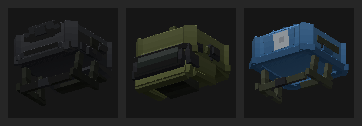
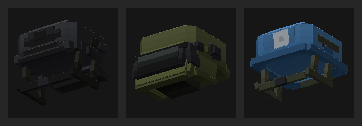
Add files via upload

diff --git a/tools/helmets.py b/tools/helmets.py
@@ -51,8 +51,8 @@ from geom import dome, plain, tilted, corner_posts, chinstrap
 
 # --------------------------------------------------------------- bastion ----
 BASTION = (
-    dome("Head", "shell", -4.60, 4.60, -4.60, 4.60, 28.40, 33.40, "shell_black",
-         corner=1.18, bevel=1.40, plate=1.35, taper=0.0, flare=1.55)
+    dome("Head", "shell", -4.66, 4.66, -4.66, 4.66, 28.40, 33.40, "shell_black",
+         corner=1.10, bevel=1.40, plate=1.35, taper=0.0, flare=1.55)
     + [
         # brow, raked forward so the front edge is not a flat wall
         tilted("Head", "brow", [-4.40, 28.10, -4.95], [8.80, 0.95, 1.35], "shell_black",
@@ -65,13 +65,13 @@ BASTION = (
         plain("Head", "nape_pad", [-3.55, 27.20, 3.05], [7.10, 0.95, 1.80], "webbing_dark"),
 
         # --- NVG shroud on the front of the crown
-        tilted("Head", "shroud_base", [-1.95, 30.60, -4.92], [3.90, 2.00, 0.62], "hardware",
+        tilted("Head", "shroud_base", [-1.95, 29.85, -4.98], [3.90, 1.85, 0.62], "hardware",
                rot=[-14, 0, 0]),
-        tilted("Head", "shroud_lug", [-0.80, 31.10, -5.32], [1.60, 1.00, 0.58], "hardware",
+        tilted("Head", "shroud_lug", [-0.80, 30.35, -5.38], [1.60, 0.95, 0.58], "hardware",
                rot=[-14, 0, 0]),
-        tilted("Head", "shroud_wing_r", [-2.85, 30.90, -4.82], [0.95, 1.10, 0.52], "hardware",
+        tilted("Head", "shroud_wing_r", [-2.85, 30.10, -4.88], [0.95, 1.05, 0.52], "hardware",
                rot=[-14, 0, -9]),
-        tilted("Head", "shroud_wing_l", [1.90, 30.90, -4.82], [0.95, 1.10, 0.52], "hardware",
+        tilted("Head", "shroud_wing_l", [1.90, 30.10, -4.88], [0.95, 1.05, 0.52], "hardware",
                rot=[-14, 0, 9]),
 
         # --- ARC rails down each side
@@ -131,7 +131,7 @@ BASTION = (
                rot=[-7, -11, -8]),
 
         # --- crown seam, canted forward with the fall of the crown
-        tilted("Head", "seam", [-0.50, 33.22, -2.70], [1.00, 0.44, 5.40], "hardware",
+        tilted("Head", "seam", [-0.50, 33.06, -1.85], [1.00, 0.40, 3.70], "hardware",
                rot=[6, 0, 0]),
 
         # --- raked peak over the brow
@@ -157,8 +157,8 @@ K63 = (
     # 28.35 so the eyes (about y 28) stay clear, crown down at 33.20. The wall
     # runs straight to the top of the head and the two-step crown does all the
     # rounding — see the module docstring for why a taper cannot go below y 32.
-    dome("Head", "dome", -4.62, 4.62, -4.62, 4.62, 28.35, 33.20, "olive",
-         corner=1.20, bevel=1.20, plate=1.50, taper=0.0, flare=1.70)
+    dome("Head", "dome", -4.68, 4.68, -4.68, 4.68, 28.35, 33.20, "olive",
+         corner=1.12, bevel=1.20, plate=1.50, taper=0.0, flare=1.70)
     + [
         # raised brow band, proud of the shell all the way round
         plain("Head", "band_x", [-4.84, 28.05, -3.30], [9.68, 0.85, 6.60], "olive_dark"),
@@ -190,7 +190,7 @@ K63 = (
                rot=[0, -12, 7]),
 
         # crown seam, tipped forward so it follows the fall of the crown
-        tilted("Head", "seam", [-0.48, 33.02, -2.60], [0.96, 0.44, 5.20], "olive_dark",
+        tilted("Head", "seam", [-0.48, 32.90, -1.75], [0.96, 0.40, 3.50], "olive_dark",
                rot=[5, 0, 0]),
 
         # swept trim along the lower shell, rising toward the back
@@ -282,8 +282,8 @@ K63 = (
 
 # ----------------------------------------------------------------- untar ----
 UNTAR = (
-    dome("Head", "shell", -4.64, 4.64, -4.64, 4.64, 28.35, 33.40, "un_blue",
-         corner=1.24, bevel=1.40, plate=1.40, taper=0.0, flare=1.55)
+    dome("Head", "shell", -4.70, 4.70, -4.70, 4.70, 28.35, 33.40, "un_blue",
+         corner=1.16, bevel=1.40, plate=1.40, taper=0.0, flare=1.55)
     + [
         # all-round brim, each edge tipped slightly downward so the rim reads
         # as a curve rather than a shelf
@@ -311,9 +311,9 @@ UNTAR = (
         # cover seams crossing the crown on opposite Y rotations — the one
         # place on this helmet where the geometry is not axis-aligned, and it
         # does more for the silhouette than anything bolted to the sides
-        tilted("Head", "seam_a", [-0.35, 33.22, -2.60], [0.70, 0.40, 5.20], "un_blue_dark",
+        tilted("Head", "seam_a", [-0.35, 33.10, -1.85], [0.70, 0.38, 3.70], "un_blue_dark",
                rot=[0, 25, 0]),
-        tilted("Head", "seam_b", [-0.35, 33.22, -2.60], [0.70, 0.40, 5.20], "un_blue_dark",
+        tilted("Head", "seam_b", [-0.35, 33.10, -1.85], [0.70, 0.38, 3.70], "un_blue_dark",
                rot=[0, -25, 0]),
 
         # cloth cover ties, tipped up off the shell

diff --git a/tools/fit_check.py b/tools/fit_check.py
@@ -124,13 +124,74 @@ def check_coverage(name, cubes):
     return not bad
 
 
+def corners_of(c):
+    o = np.array(c["origin"], float)
+    s = np.array(c["size"], float)
+    P = np.array([[o[0] + dx * s[0], o[1] + dy * s[1], o[2] + dz * s[2]]
+                  for dx in (0, 1) for dy in (0, 1) for dz in (0, 1)])
+    if c.get("rotation"):
+        piv = np.array(c.get("pivot", [0, 0, 0]), float)
+        P = (rp.cube_matrix(c["rotation"]) @ (P - piv).T).T + piv
+    return P
+
+
+def check_crown(name, cubes, half_width, flare, allow=()):
+    """Nothing may stand outside the profile the crown is drawing.
+
+    Above the top of the head the shell pulls in by `flare` per unit it rises.
+    Anything sitting outside that line is a lump on the crown, and because it is
+    at the silhouette's top corners it is the first thing the eye finds.
+
+    A previous version of this checked against the *wall's* half-width instead,
+    which passes anything inside the widest part of the helmet — so it happily
+    passed four cap-ring corner posts standing 0.35 proud of the crown, which
+    are exactly what shipped and read as wings in game. Check against the
+    profile at each height, not against the widest point.
+    """
+    bad = []
+    for c in cubes:
+        if c.get("_name", "") in allow:
+            continue
+        worst = max((max(abs(x), abs(z)) - (half_width - flare * (y - 32.0))
+                     for x, y, z in corners_of(c) if y > 32.05), default=-9.0)
+        if worst > 0.05:
+            bad.append((round(worst, 2), c.get("_name", "?")))
+    bad.sort(reverse=True)
+    if bad:
+        print(f"  {name}: {len(bad)} cubes OUTSIDE the crown profile — "
+              f"{[f'{n} +{w}' for w, n in bad[:4]]}")
+    else:
+        print(f"  {name}: crown profile clean")
+    return not bad
+
+
 if __name__ == "__main__":
     panels = []
     print("head coverage (y 30.0-32.0, 16 azimuths):")
     covered = True
+    import helmets
+    CROWN = {"bastion": (4.66, 1.55), "k63": (4.68, 1.70), "untar": (4.70, 1.55)}
+    # deliberate proud detail: the NVG shroud stands off the front by design
+    ALLOW = {"shroud_base", "shroud_lug", "shroud_wing_r", "shroud_wing_l"}
     for name in ("bastion", "k63", "untar"):
         geo, tex = rp.load(name)
         covered &= check_coverage(name, rp.collect_cubes(geo, {"Head"}))
+    print("crown profile (nothing standing outside the taper above y 32):")
+    for name in ("bastion", "k63", "untar"):
+        named = []
+        for t in helmets.HELMET_MODELS[name][0]:
+            if t[0] != "Head":
+                continue
+            ex = t[5] if len(t) > 5 else {}
+            c = {"origin": t[2], "size": t[3], "_name": t[1]}
+            if "rot" in ex:
+                c["rotation"] = ex["rot"]
+                c["pivot"] = ex["pivot"]
+            named.append(c)
+        hw, fl = CROWN[name]
+        covered &= check_crown(name, named, hw, fl, allow=ALLOW)
+    for name in ("bastion", "k63", "untar"):
+        geo, tex = rp.load(name)
     for name in ("bastion", "k63", "untar"):
         geo, tex = rp.load(name)
         groups = [(HEAD, flat((196, 160, 130))), (EYELINE, flat((200, 60, 60))),

diff --git a/tools/geom.py b/tools/geom.py
@@ -37,16 +37,29 @@ def _c(bone, name, origin, size, mat, rot=None, pivot=None, decal=None):
 
 def corner_posts(bone, prefix, x0, x1, z0, z1, y, h, c, t, mat):
     """Four vertical plates rotated 45 degrees about Y, bridging the corners of
-    an x/z footprint so the cross-section reads as an octagon instead of a box."""
+    an x/z footprint so the cross-section reads as an octagon instead of a box.
+
+    The plate's OUTER face lands on the corner chord; it is not centred on it.
+    Centring leaves half the thickness — here about 0.35 units on the diagonal —
+    standing outside the octagon. On a wide ring that is buried behind the
+    flats and invisible. On the small cap ring at the top of a helmet there is
+    nothing outside it to hide behind, and the four posts read as wedges stuck
+    on the crown's corners. That was the "wings", and it survived two rounds of
+    fixing the corner *facets*, which were never the thing sticking out.
+    """
     out = []
     L = c * R2                       # chord length across the cut corner
+    d = 1.0 / R2
     specs = [
-        ("fr", x1 - c / 2, z0 + c / 2, -45),   # +x / -z
-        ("fl", x0 + c / 2, z0 + c / 2, +45),   # -x / -z
-        ("br", x1 - c / 2, z1 - c / 2, +45),   # +x / +z
-        ("bl", x0 + c / 2, z1 - c / 2, -45),   # -x / +z
+        ("fr", x1 - c / 2, z0 + c / 2, -45, 1.0, -1.0),   # +x / -z
+        ("fl", x0 + c / 2, z0 + c / 2, +45, -1.0, -1.0),  # -x / -z
+        ("br", x1 - c / 2, z1 - c / 2, +45, 1.0, 1.0),    # +x / +z
+        ("bl", x0 + c / 2, z1 - c / 2, -45, -1.0, 1.0),   # -x / +z
     ]
-    for tag, mx, mz, ang in specs:
+    for tag, mx, mz, ang, sx, sz in specs:
+        # step inward along the outward diagonal by half the thickness
+        mx -= sx * d * t / 2
+        mz -= sz * d * t / 2
         out.append(_c(bone, f"{prefix}_post_{tag}",
                       [mx - L / 2, y, mz - t / 2], [L, h, t], mat,
                       rot=[0, ang, 0], pivot=[mx, y, mz]))

diff --git a/README.md b/README.md
@@ -68,8 +68,9 @@ screen in game. Bump it whenever the models change — resources live in the jar
 so editing the repo changes nothing until the jar is rebuilt and reinstalled,
 and a stale jar is otherwise indistinguishable from a fix that did not work.
 
-`1.1.0` is the first build with the corrected crown (no corner wings, flared
-dome). If the Mods screen shows `1.0.0`, the jar predates it.
+`1.2.0` is the first build where the crown corners are actually clean. `1.1.0`
+flared the crown and fixed the corner *facets* but still shipped the wings —
+they came from the cap ring's corner *posts*, which is a different thing.
 
 ## Building
 
